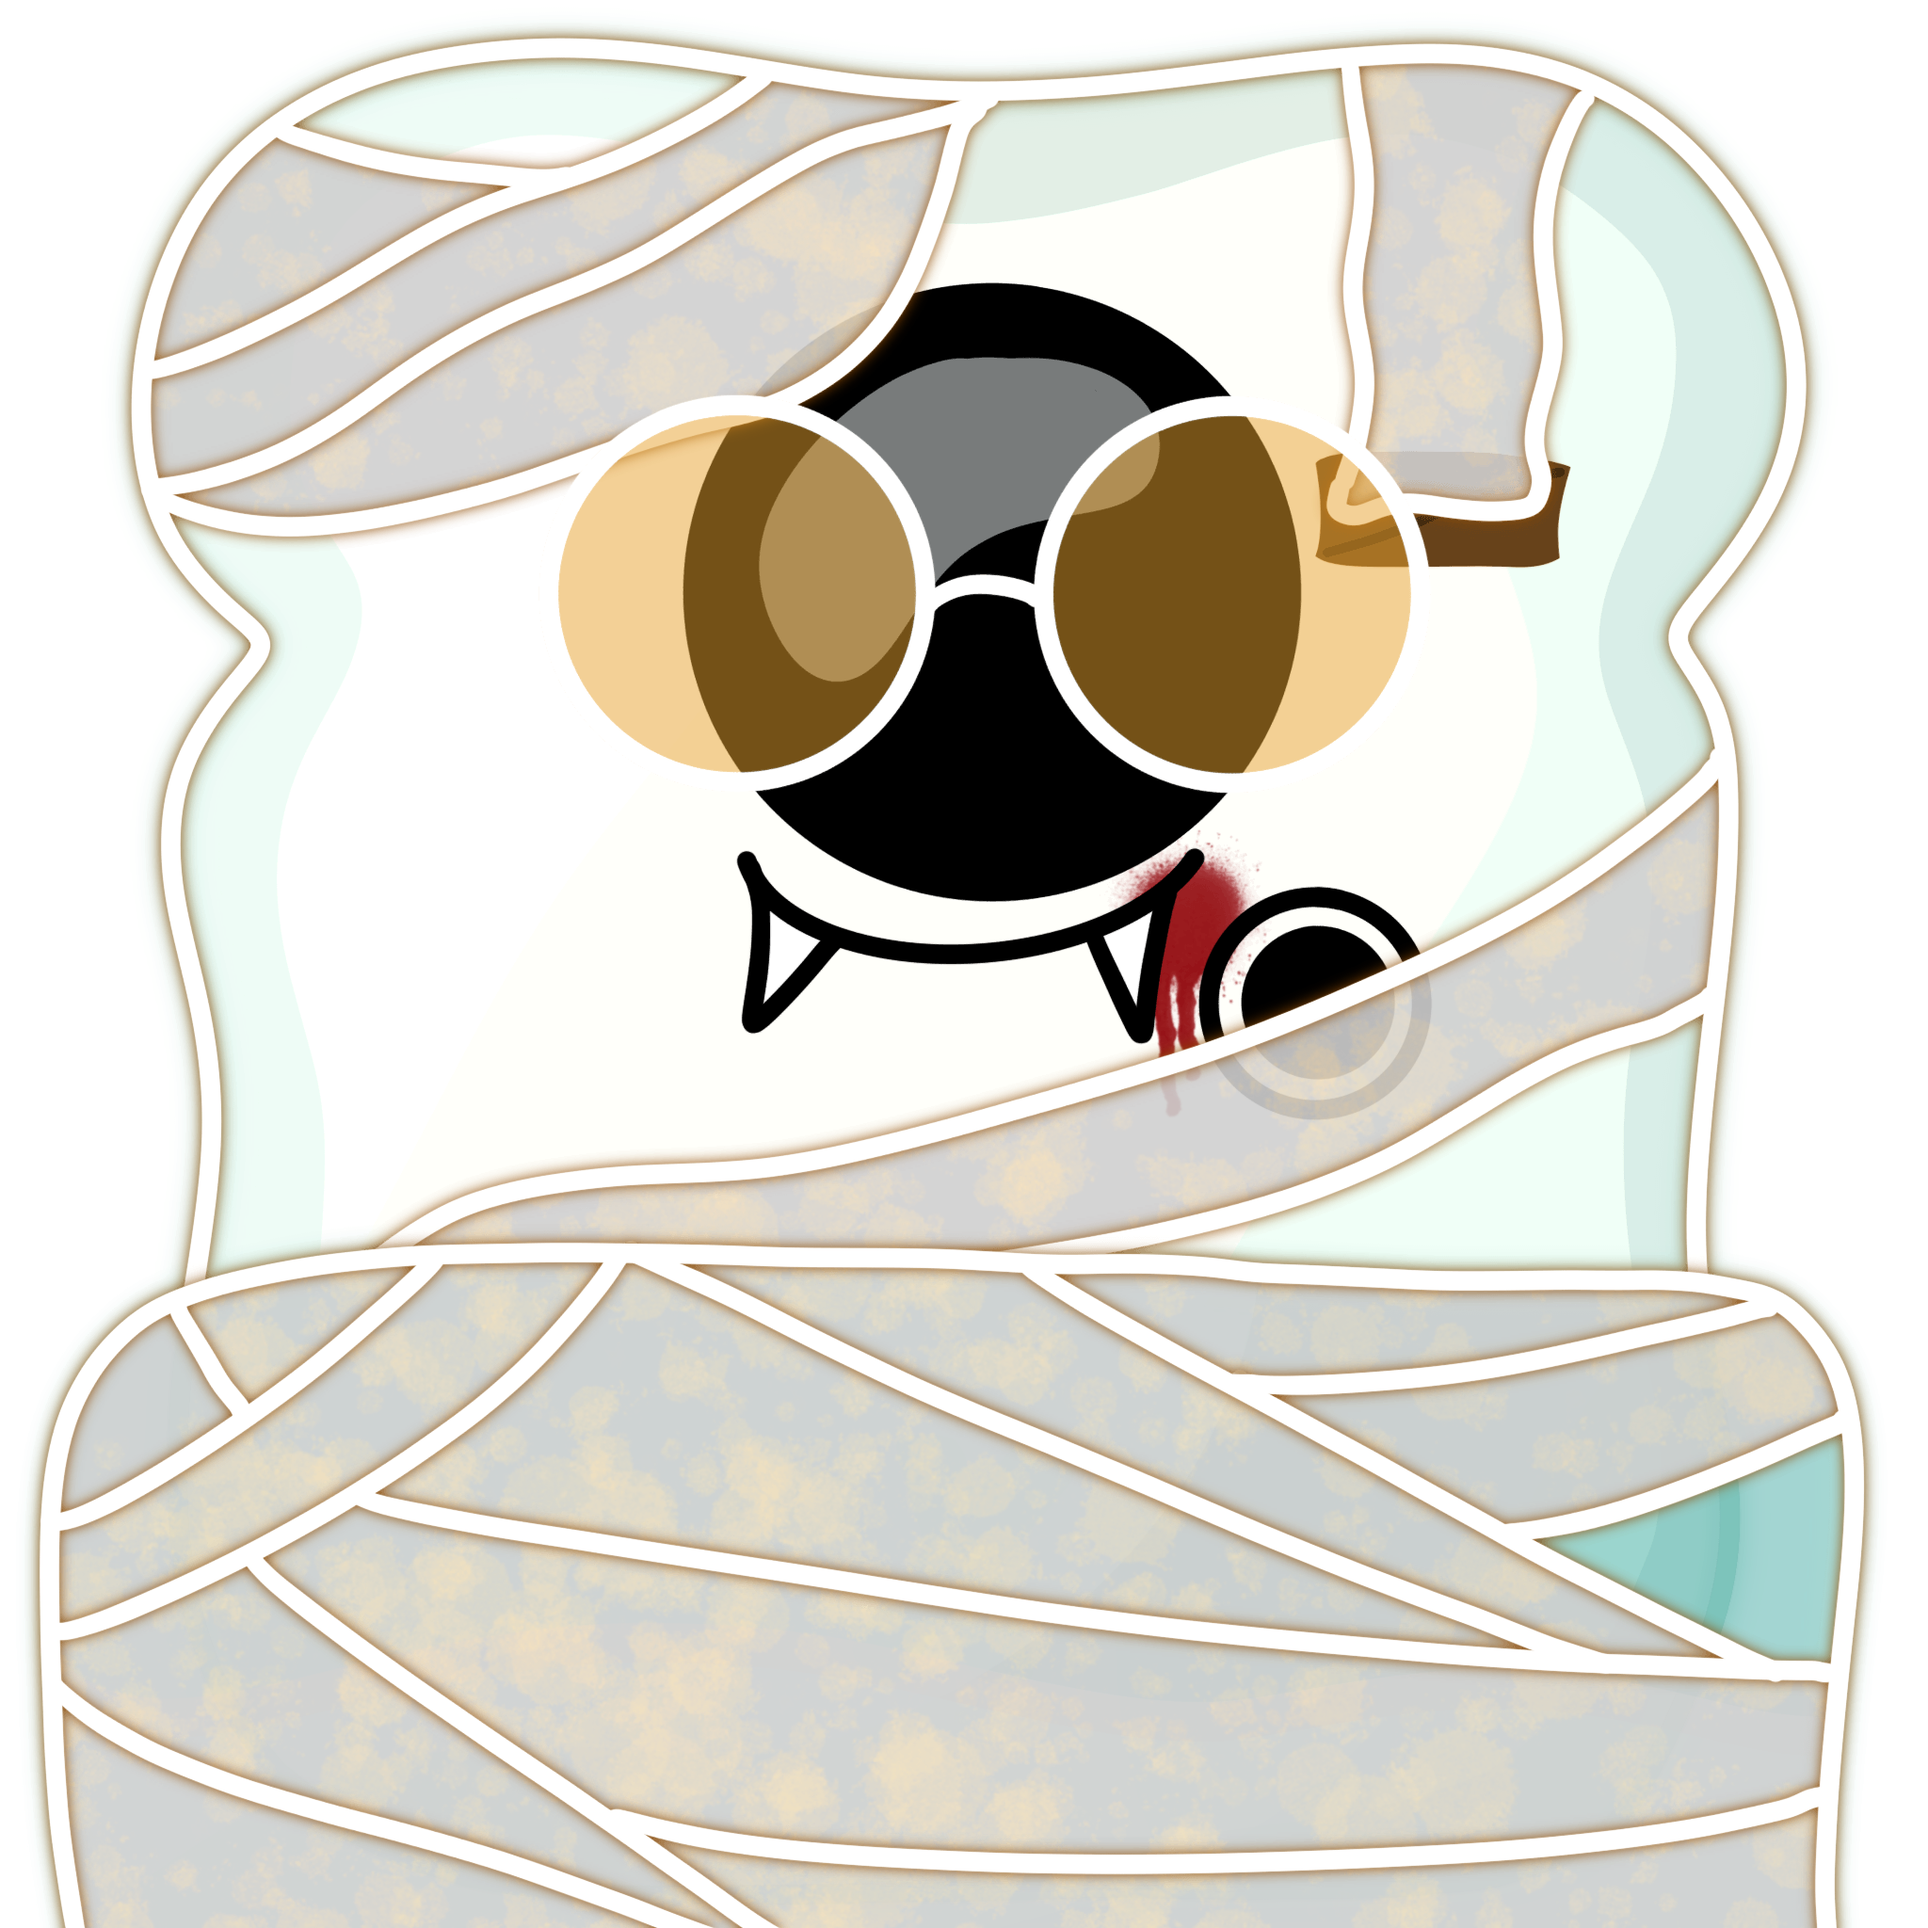
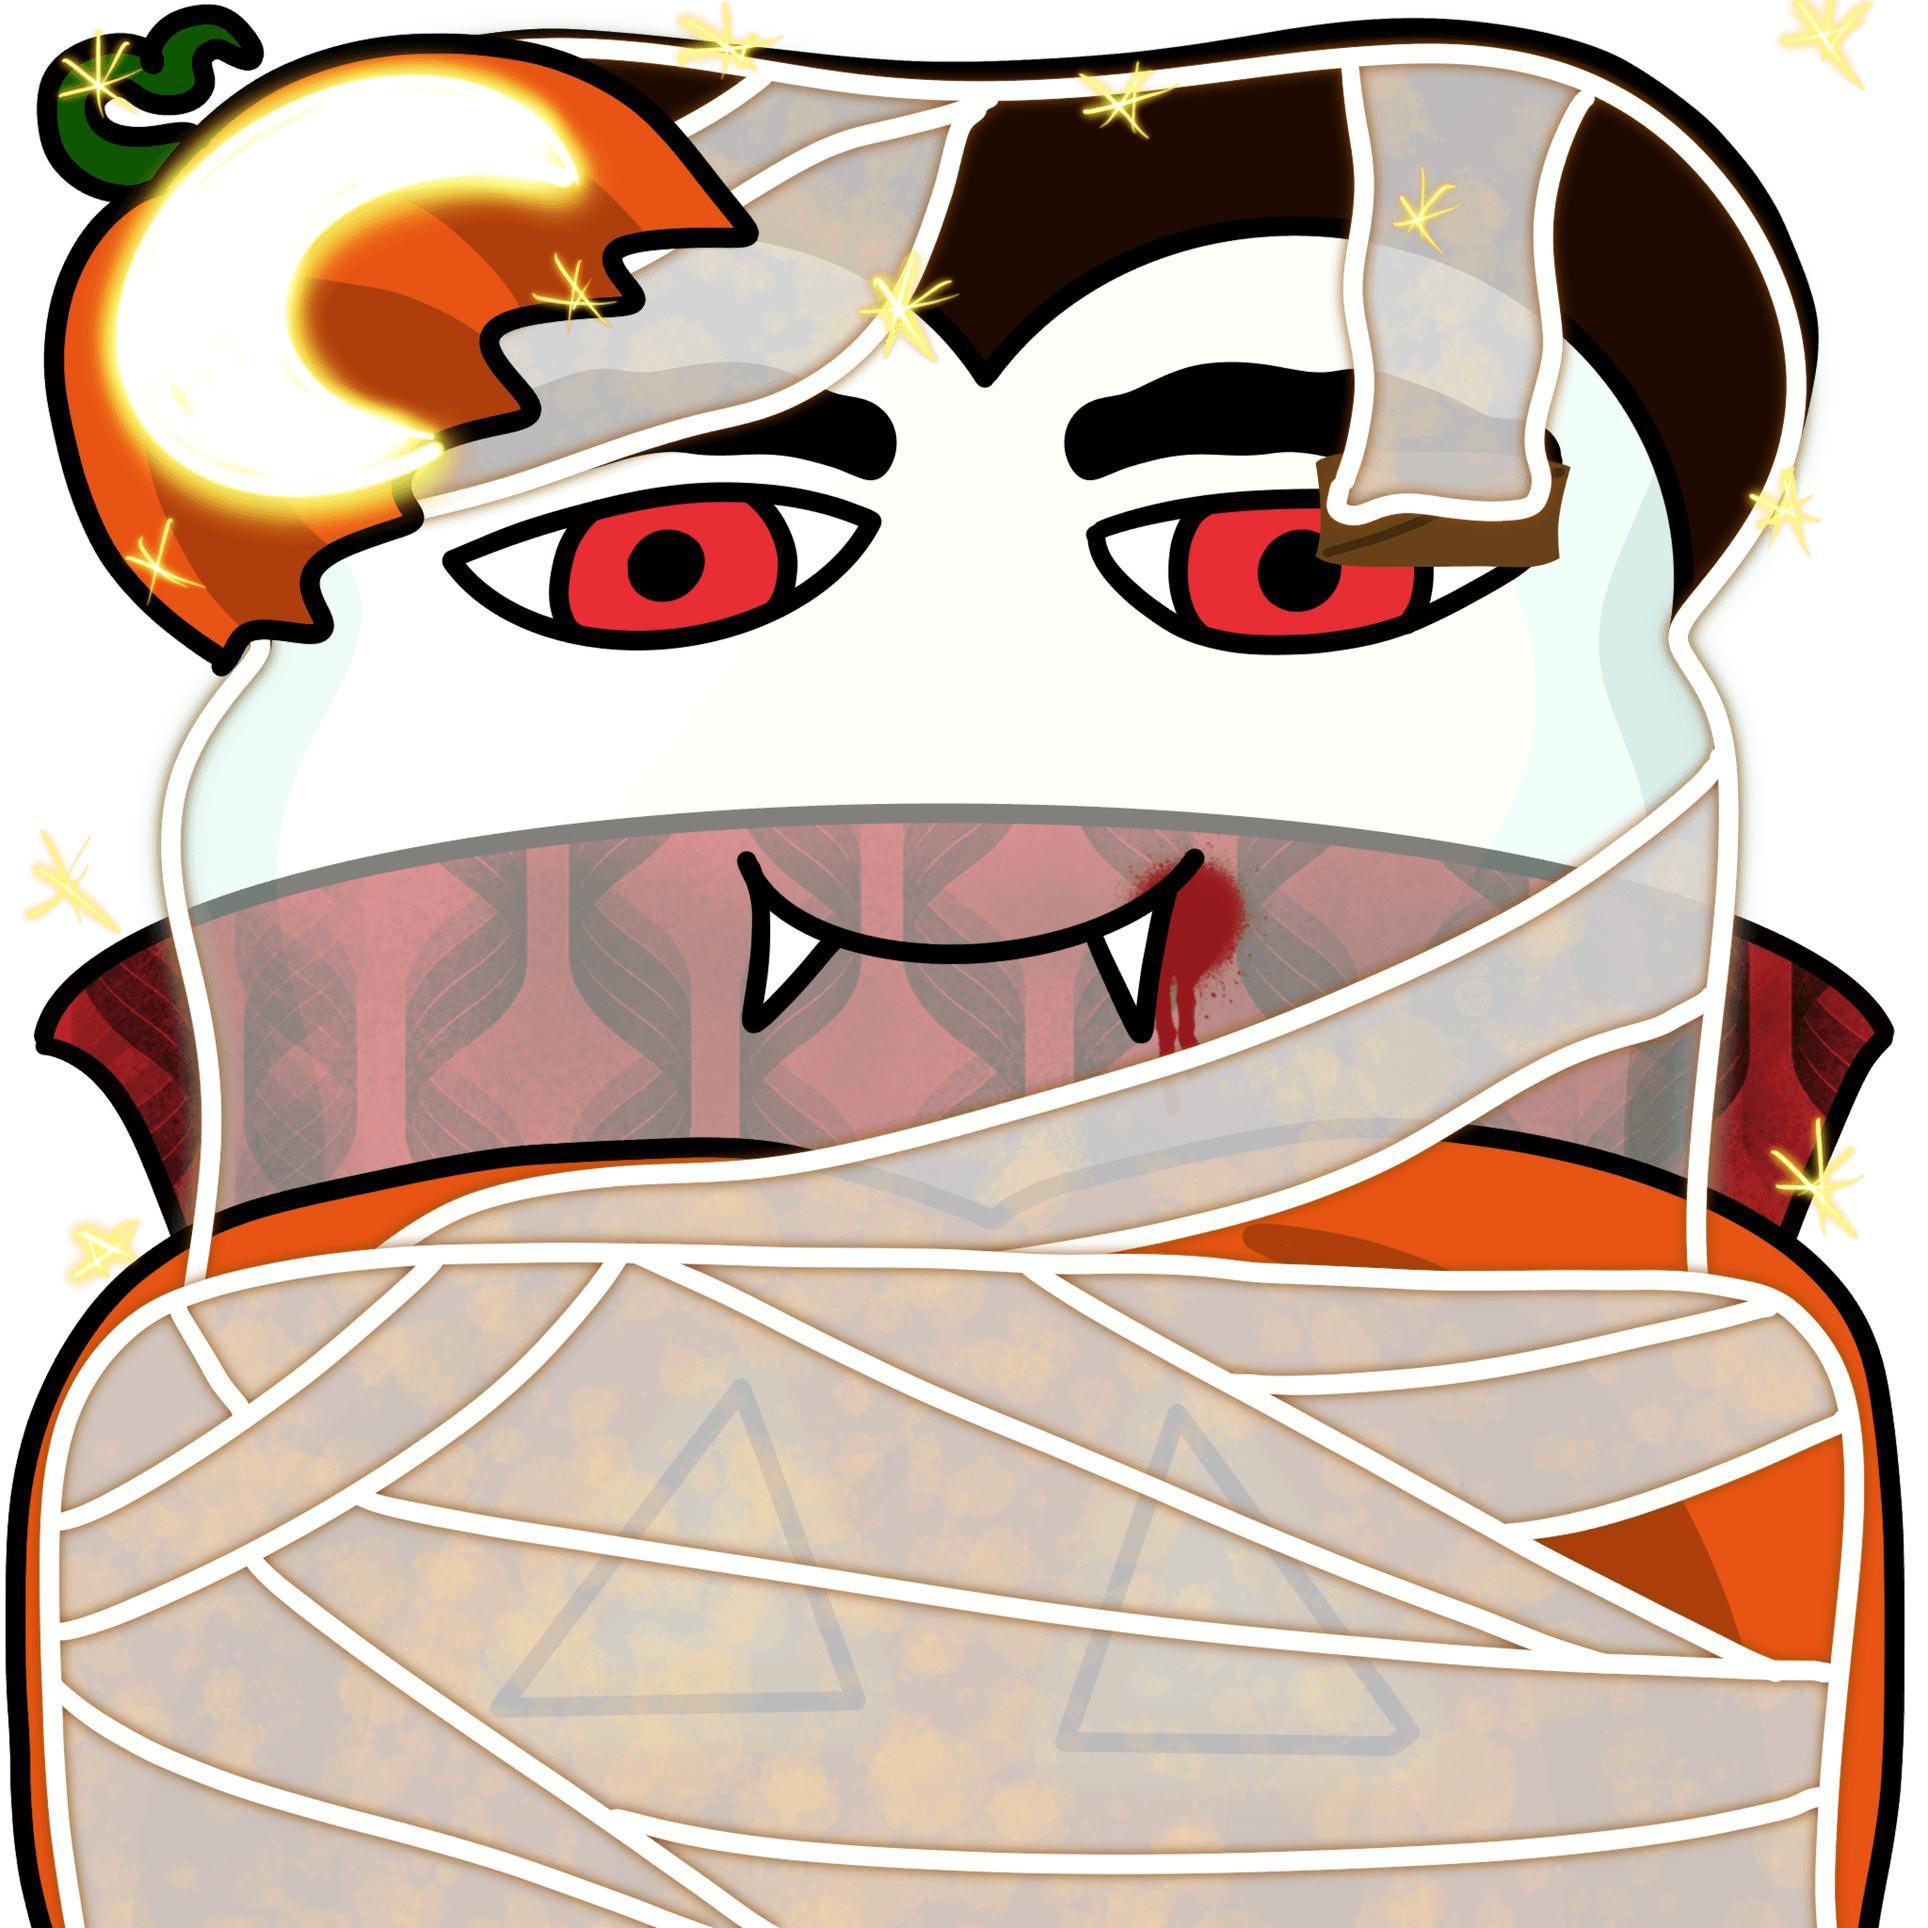
feat(BMB-356): Toasty der Woche

diff --git a/src/common/constants/emotes.constant.ts b/src/common/constants/emotes.constant.ts
@@ -200,7 +200,7 @@ export const EMOTES: { lastModified: string; name: string; new: boolean; tier: '
     url: '/emotes/bamboe1Steer.gif',
   },
   {
-    lastModified: '2026-10-29',
+    lastModified: '2026-11-04',
     name: 'bamboe1ToastyDerWoche',
     new: true,
     tier: '1',
